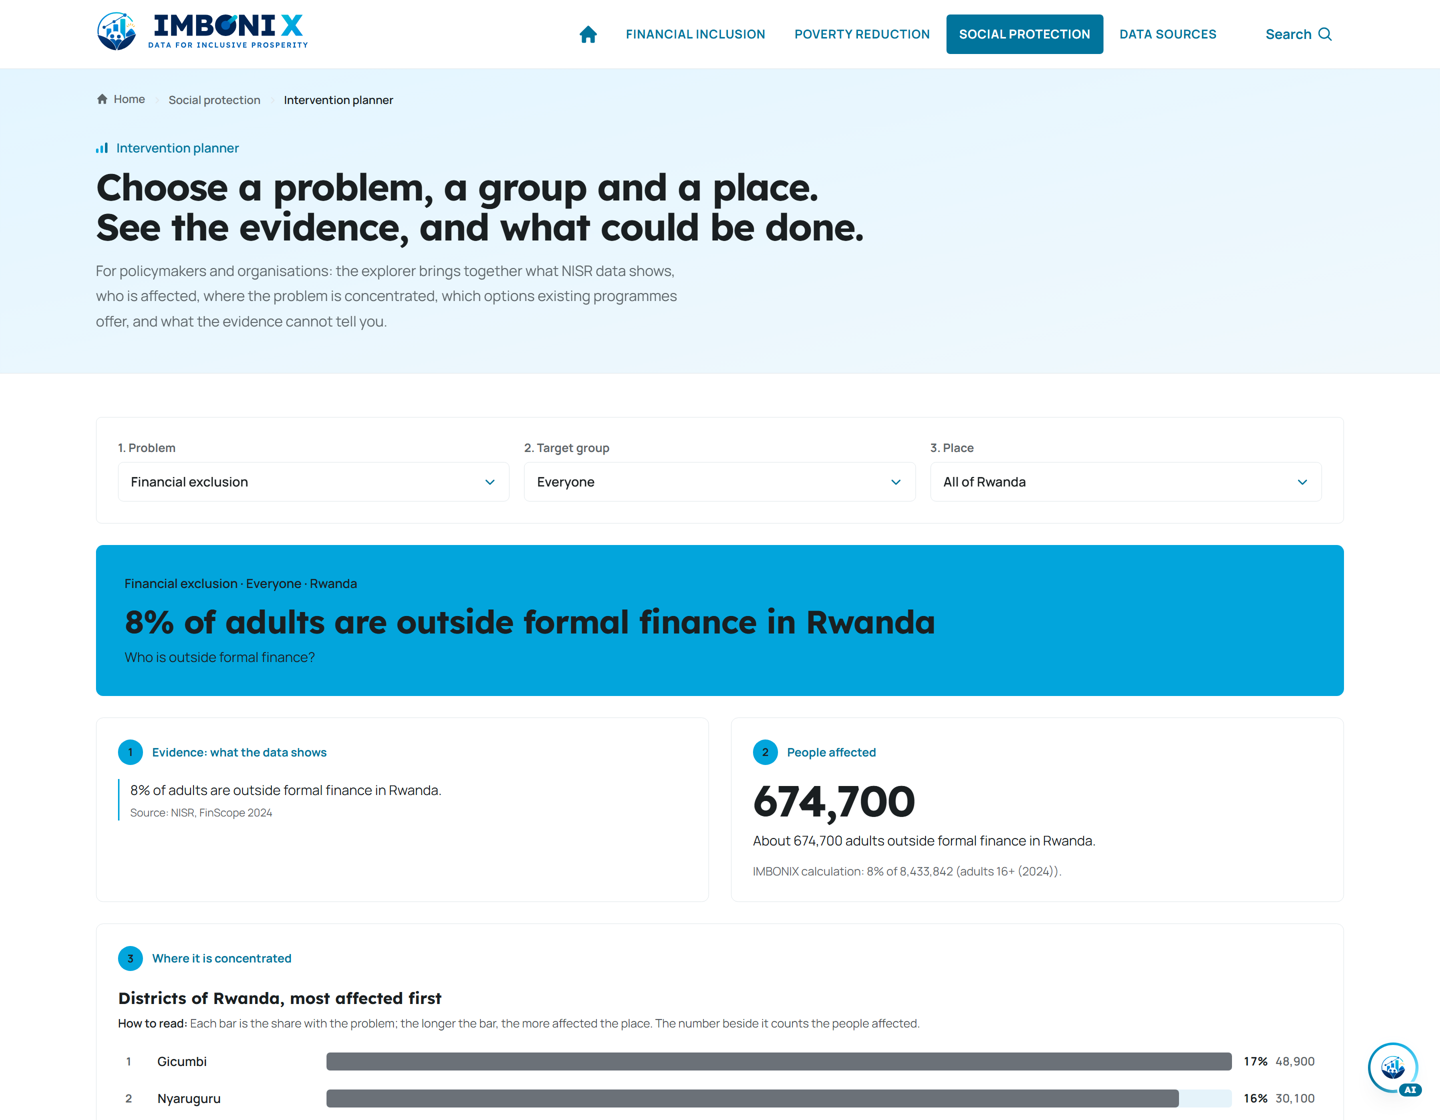
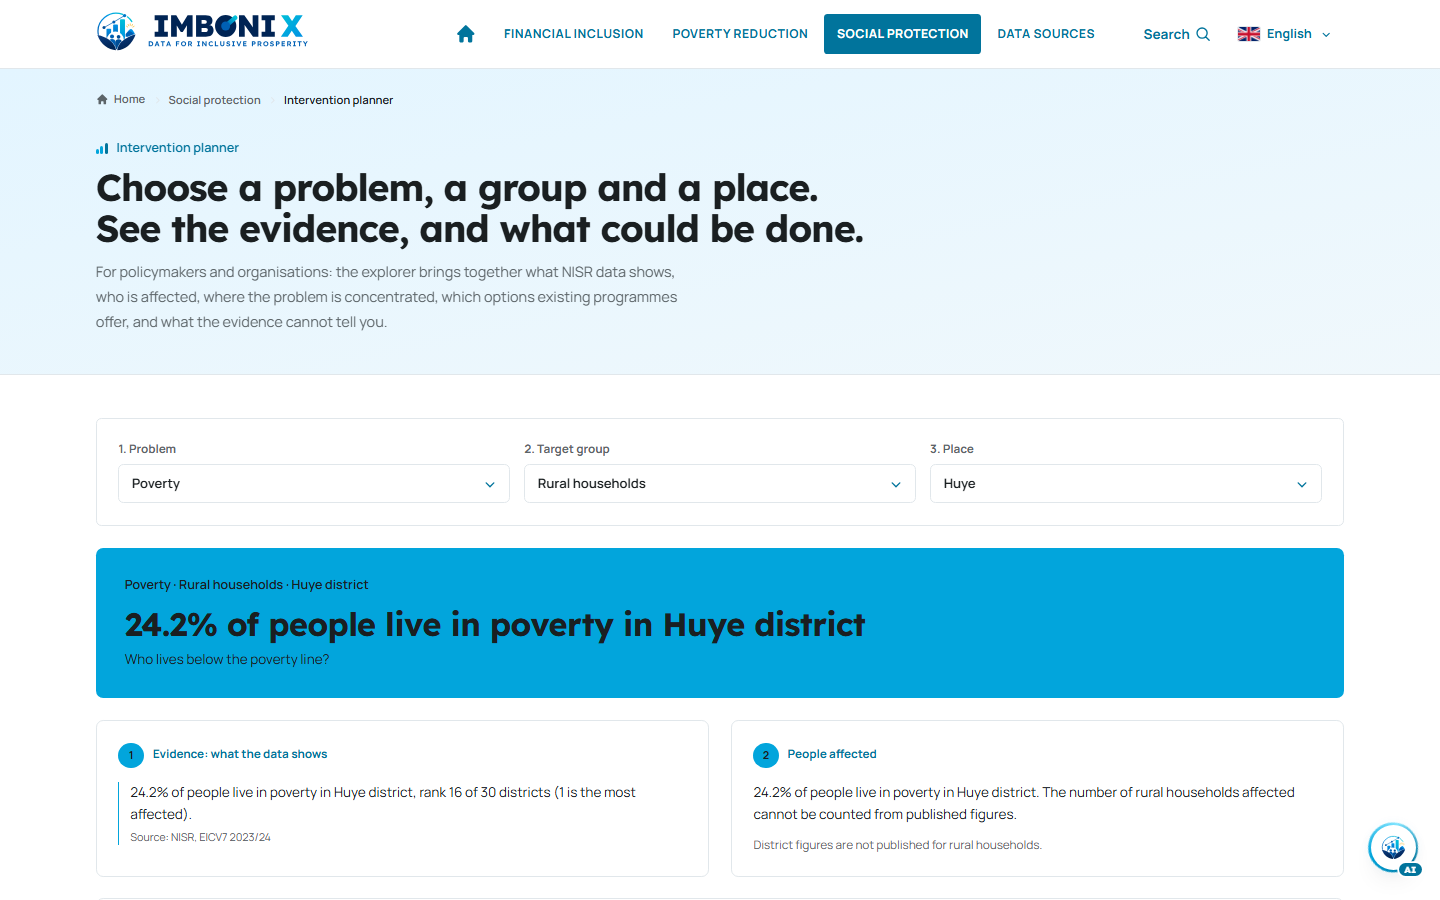
docs: update submission docs, screenshots, and AI disclosure
Refresh all 7 screenshots from the live app. Rewrite AI disclosure
with specific tools used and what the team did vs where AI helped.
Add demo script walkthrough, users table, and ministries table.
Add district planners as primary user and ministries to solution overview.

diff --git a/docs/submission/demo-script.md b/docs/submission/demo-script.md
@@ -1,1 +1,83 @@
-DEMO OF IMBONIX **https://drive.google.com/drive/folders/1Nhdh05zHYB3gVBPz3sYJnG159ImMsazc?usp=sharing**
+# IMBONIX — Demo Script
+
+> **Submission package:** [Index](README.md) · [Solution overview](solution-overview.md) · [Criteria evidence](criteria-evidence.md) · **Demo script** · [IMBONIX AI](../ai-assistant.md) · [AI disclosure](ai-disclosure.md)
+
+**Demo video:** [Google Drive](https://drive.google.com/drive/folders/1Nhdh05zHYB3gVBPz3sYJnG159ImMsazc?usp=sharing)
+
+---
+
+## 90-second pitch
+
+> Rwanda solved **access** to finance — 96% are included. But only 10% are financially healthy, and the households left
+> behind cluster where poverty, poor nutrition and shocks overlap. IMBONIX brings NISR's published figures together for
+> all 30 districts and 416 sectors, labels every value for trust, and turns them into clear starting points for action —
+> paired with an on-device AI assistant that answers in plain language. It is open source, independent, and always
+> demonstrable with no API key.
+
+---
+
+## 3-minute walkthrough (mapped to the five criteria)
+
+### 1. The problem (Criterion 1 — Problem understanding & relevance) — 30 seconds
+
+1. Open the **homepage** — the hero shows the four headline figures
+2. Scroll to the **gap chart**: 96% included, only 10% healthy — the 86-point gap
+3. Point out **"Aligned to national priorities"** — Vision 2050, NST2, the Financial Inclusion Roadmap
+
+### 2. The data (Criterion 2 — Data use & methodology) — 30 seconds
+
+1. Open **Data & methodology** (`/data`) — show the sources table with trust labels
+2. Click any chart — point out the **source line, year, and trust label** beneath it
+3. Show the **CSV download** button on a homepage chart — every figure is downloadable with its source
+
+### 3. The tech (Criterion 3 — Tech innovation) — 40 seconds
+
+1. Open **IMBONIX AI** (the floating badge) — type "how poor is Huye?"
+   - Show the **grounded answer** with source, rank and links
+   - Point out: on-device, no API key, no network call, works offline
+2. Open the **district map** (`/poverty-dynamics/district-map`) — select a district, show sectors
+3. Open the **intervention planner** — choose "Poverty", "Rural households", "Huye" — show the evidence and options
+
+### 4. The design (Criterion 4 — Usability & design) — 20 seconds
+
+1. Show the **mobile view** (resize the browser or use device toolbar)
+2. Show a chart's **table view** toggle — accessibility for screen readers
+3. Show the **chart library** (`/data/chart-library`) — all charts in one place
+
+### 5. The impact (Criterion 5 — Tangible impact) — 30 seconds
+
+1. Open **priority districts** (`/social-protection/priority-districts`) — show the 7 policy levers
+2. Show how each lever **flags the 10 most affected districts** with one published figure and a stated rule
+3. Close with: "A district planner opens IMBONIX, sees their biggest need, and knows what programme to push — all from one trustworthy, sourced platform."
+
+---
+
+## Who uses IMBONIX
+
+| User type | What they do | Key page |
+|-----------|-------------|----------|
+| **District planners** (primary user) | See their district's biggest needs, decide where to allocate resources | District profiles, Intervention planner |
+| **Policymakers** (MINALOC, MINECOFIN, LODA) | Use 7 policy levers to flag priority districts | Priority districts |
+| **Rwandan citizens** | Look up their own district in plain language | Districts, IMBONIX AI |
+| **Development partners** (WFP, UNICEF, AFR) | See where vulnerabilities overlap to target programmes | Overlapping needs |
+| **Researchers** | Access every figure with source, year and trust label; use the JSON API | Data & methodology |
+| **Civil society** | Follow programmes with open, sourced figures | District profiles |
+
+## Ministries that benefit
+
+| Ministry | Why |
+|----------|-----|
+| **MINALOC / LODA** | VUP Direct Support and public works delivery |
+| **MINECOFIN** | Financial Inclusion Roadmap monitoring |
+| **Ministry of Health / RSSB** | Mutuelle/CBHI coverage gaps |
+| **MINAGRI** | Food security and nutrition |
+| **Ministry of ICT** | Digital readiness for mobile finance |
+| **NISR** | Data verification and methodology review |
+
+---
+
+<div align="center">
+
+[Solution overview](solution-overview.md) · [Criteria evidence](criteria-evidence.md) · [IMBONIX AI](../ai-assistant.md) · [Main README](../../README.md)
+
+</div>

diff --git a/docs/submission/ai-disclosure.md b/docs/submission/ai-disclosure.md
@@ -2,15 +2,32 @@
 
 > **Submission package:** [Index](README.md) · [Solution overview](solution-overview.md) · [Criteria evidence](criteria-evidence.md) · [Demo script](demo-script.md) · [IMBONIX AI](../ai-assistant.md) · **AI disclosure**
 
-AI coding assistants were used on this project for:
+## What we did ourselves
 
-- drafting and reviewing code for the web app, the API, the data scripts and the tests;
-- drafting documentation;
-- desk research support, such as indexing the NISR microdata catalog and cross-checking transcribed figures against
-  their published tables.
+- **Downloaded every dataset** from NISR and partner publications (EICV7, FinScope, DHS, CFSVA, LFS, Census)
+- **Designed the solution** — the platform concept, page structure, what to show, and all product decisions
+- **Chose all chart types** and decided how to present every figure
+- **Reviewed every line of code** and every statistic before it went on screen
+- **Drove all design decisions** — colours, layout, information architecture, user flows
 
-Every statistic shown by IMBONIX comes from a published NISR or partner source cited beside it; no figure was generated by
-an AI tool. The team reviewed the work and is responsible for every figure, claim and line of code in the submission.
+## Where AI helped
 
-Before submitting, the team should record here the specific tools used and any other details the NISR competition rules
-require.
+| Area | How AI was used |
+|------|----------------|
+| **Coding** | Drafting and reviewing code for the web app, the API, the data scripts and the tests (Claude Code) |
+| **Chart types** | Suggesting the right visualization for each dataset |
+| **Homepage images** | Two AI-generated background images used on the homepage (`hero-analyst.jpg`, `hero-market.jpg`) |
+| **Documentation** | Drafting documentation and submission materials |
+| **Research** | Desk research support — indexing the NISR microdata catalog and cross-checking transcribed figures against their published tables |
+
+## Tools used
+
+- **Claude Code** (Anthropic) — AI coding assistant for development, code review and documentation
+
+## Our responsibility
+
+Every statistic shown by IMBONIX comes from a published NISR or partner source cited beside it. **No figure was generated by an AI tool.** The team reviewed the work and is responsible for every figure, claim and line of code in the submission.
+
+## About IMBONIX AI (the in-app assistant)
+
+IMBONIX AI is **not an external LLM**. It is a 947-line TypeScript engine built by the team that runs entirely in the browser with no network call, no API key and no external model. It answers questions only from stored NISR data and **cannot hallucinate** — it returns real published figures or says it does not know. See [IMBONIX AI](../ai-assistant.md) for the architecture.

diff --git a/docs/submission/solution-overview.md b/docs/submission/solution-overview.md
@@ -202,11 +202,24 @@ one click.
 
 | Audience              | What they get                                                                    | Start here                             |
 | --------------------- | -------------------------------------------------------------------------------- | -------------------------------------- |
+| **District planners** (primary user) | Their district's biggest needs, what programme to push, where to act first | District profiles, Intervention planner |
 | Vulnerable households | Where support arrives late and finance is far                                    | Social protection → VUP payments       |
+| Rwandan citizens      | Their own district in plain language, free, no account needed                    | Districts, IMBONIX AI                  |
 | Policymakers          | Policy levers, each flagged by one published figure and a checkable rule         | Social protection → Priority districts |
 | Researchers           | Every figure with its table, year and trust label; a JSON API; rebuild scripts   | Data                                   |
 | Civil society         | Open figures with sources, to follow programmes and speak for places left behind | Districts                              |
 | Development partners  | Where poverty, exclusion, poor nutrition and shocks overlap                      | Poverty dynamics → Overlapping needs   |
+
+**Ministries that benefit:**
+
+| Ministry / Institution | Why they use IMBONIX |
+| ---------------------- | -------------------- |
+| **MINALOC / LODA** | VUP Direct Support and public works delivery, priority districts |
+| **MINECOFIN** | Financial Inclusion Roadmap 2025–2030 monitoring |
+| **Ministry of Health / RSSB** | Mutuelle/CBHI coverage gaps by district |
+| **MINAGRI** | Food security (CFSVA) and child nutrition (stunting) |
+| **Ministry of ICT** | Digital readiness for mobile finance |
+| **NISR** | Data verification and methodology review |
 
 It ends in action — seven policy levers, each flagging districts by one published figure and a stated, checkable rule:
 

diff --git a/docs/submission/README.md b/docs/submission/README.md
@@ -62,10 +62,10 @@ Student IDs are ready for verification, and at least one team member is a Rwanda
 ## Submission checklist (per the NISR rules — due 30 October 2026)
 
 - [x] **Public GitHub link** — this repository (public).
-- [ ] **Deployed app link** — _(re)deploy to Vercel and record the public URL here_ (publicly accessible; no login, so no sample credentials needed).
+- [ ] **Deployed app link** — deploy to Vercel and record the public URL here (publicly accessible; no login, no sample credentials needed). **To deploy:** see [deployment.md](../deployment.md).
 - [x] **README** — the top-level [README](../../README.md) explains the data used, what the platform communicates, and how users interact with it.
 - [x] **Script(s) / code** — the full source is in this repo and runs on any machine (`npm` or Docker; see [deployment.md](../deployment.md)).
-- [ ] **Demo video** — a **screen recording** (`.webm` or `.gif`), **≤ 3 minutes**, showing the interface and features, added to the repo (e.g. a `demo/` folder). Use the [demo script](demo-script.md) to drive it. **← this is the one item still to produce.**
+- [x] **Demo video** — hosted on [Google Drive](https://drive.google.com/drive/folders/1Nhdh05zHYB3gVBPz3sYJnG159ImMsazc?usp=sharing); the [demo script](demo-script.md) has the full walkthrough.
 - [x] **Data file + link to the data** — the processed figures are committed in `apps/web/src/data/generated/`; the raw microdata is linked to the [NISR microdata catalog](https://microdata.statistics.gov.rw/index.php/catalog) (see the README **Declaration** and [docs/data/](../data/)).
 - [x] **Declaration of own work + sources acknowledged** — README **[Declaration](../../README.md#declaration)**.
 - [x] **AI disclosure** — [ai-disclosure.md](ai-disclosure.md).

diff --git a/README.md b/README.md
@@ -226,7 +226,7 @@ No secrets required or stored. CSP headers on the web app, parameter validation 
 
 ## AI assistance
 
-Parts of the code and documentation were written with AI assistance. The team reviewed everything and is responsible for every figure and claim. See [docs/submission/ai-disclosure.md](docs/submission/ai-disclosure.md).
+The team downloaded every dataset, designed the solution, chose all chart types, and reviewed every line of code. AI (Claude Code) helped with coding, suggesting chart types, generating two homepage background images, and drafting documentation. No figure was generated by AI. IMBONIX AI is the team's own 947-line TypeScript engine, not an external LLM. See [docs/submission/ai-disclosure.md](docs/submission/ai-disclosure.md).
 
 ## Declaration
 
